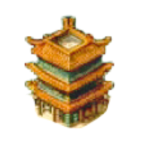
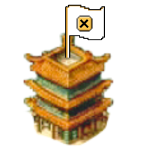
new map

diff --git a/pygame_template.py b/pygame_template.py
@@ -13,6 +13,11 @@ LEFTTEMP = pygame.image.load("images/templeleft.png")
 RIGHTTEMP = pygame.image.load("images/templeright.png")
 TOPTEMP = pygame.image.load("images/templetop.png")
 BOTTOMTEMP = pygame.image.load("images/templebottom.png")
+RESIZED_LEFTTEMP = pygame.transform.scale(LEFTTEMP, (110, 110))
+RESIZED_RIGHTTEMP = pygame.transform.scale(RIGHTTEMP, (110, 110))
+RESIZED_TOPTEMP = pygame.transform.scale(TOPTEMP, (103, 103))
+RESIZED_BOTTOMTEMP = pygame.transform.scale(BOTTOMTEMP, (120, 120))
+
 
 # Main Colours
 gold1 = (230, 224, 174)
@@ -42,7 +47,16 @@ while run:
   mouse_x, mouse_y = pygame.mouse.get_pos()
 
   if (133<mouse_x<180 and 139<mouse_y<202):
-    screen.blit(LEFTTEMP, (105, 109))
+    screen.blit(RESIZED_LEFTTEMP, (110, 92))
+
+  if (372<mouse_x<419 and 32<mouse_y<95):
+    screen.blit(RESIZED_TOPTEMP, (348, -2))
+  
+  if (600<mouse_x<647 and 131<mouse_y<194):
+    screen.blit(RESIZED_RIGHTTEMP, (582, 90))
+  
+  if (363<mouse_x<410 and 383<mouse_y<446):
+    screen.blit(RESIZED_BOTTOMTEMP, (340, 352))
 
 
   # Update the display
